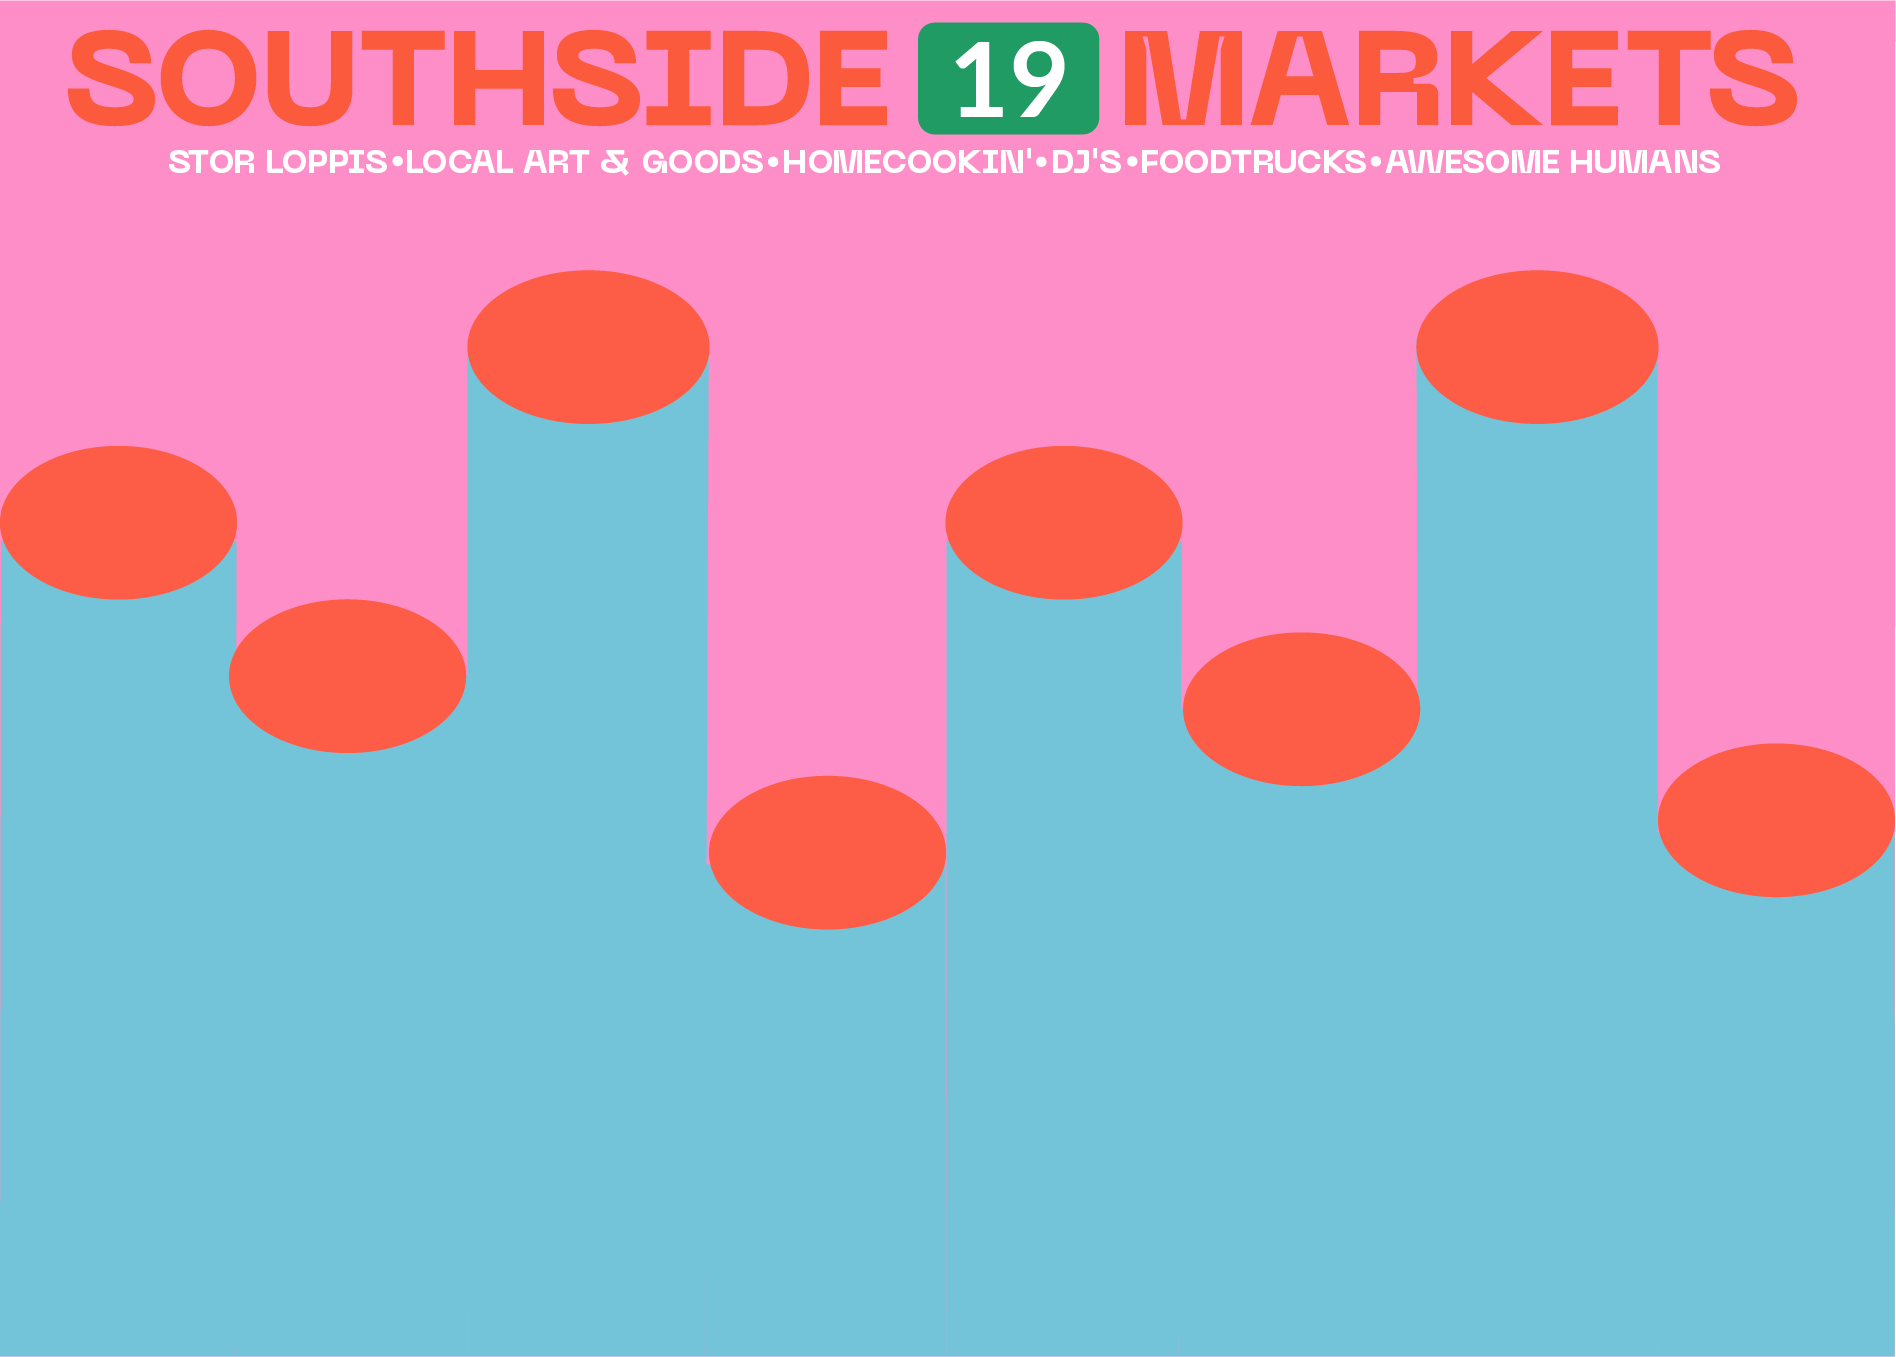
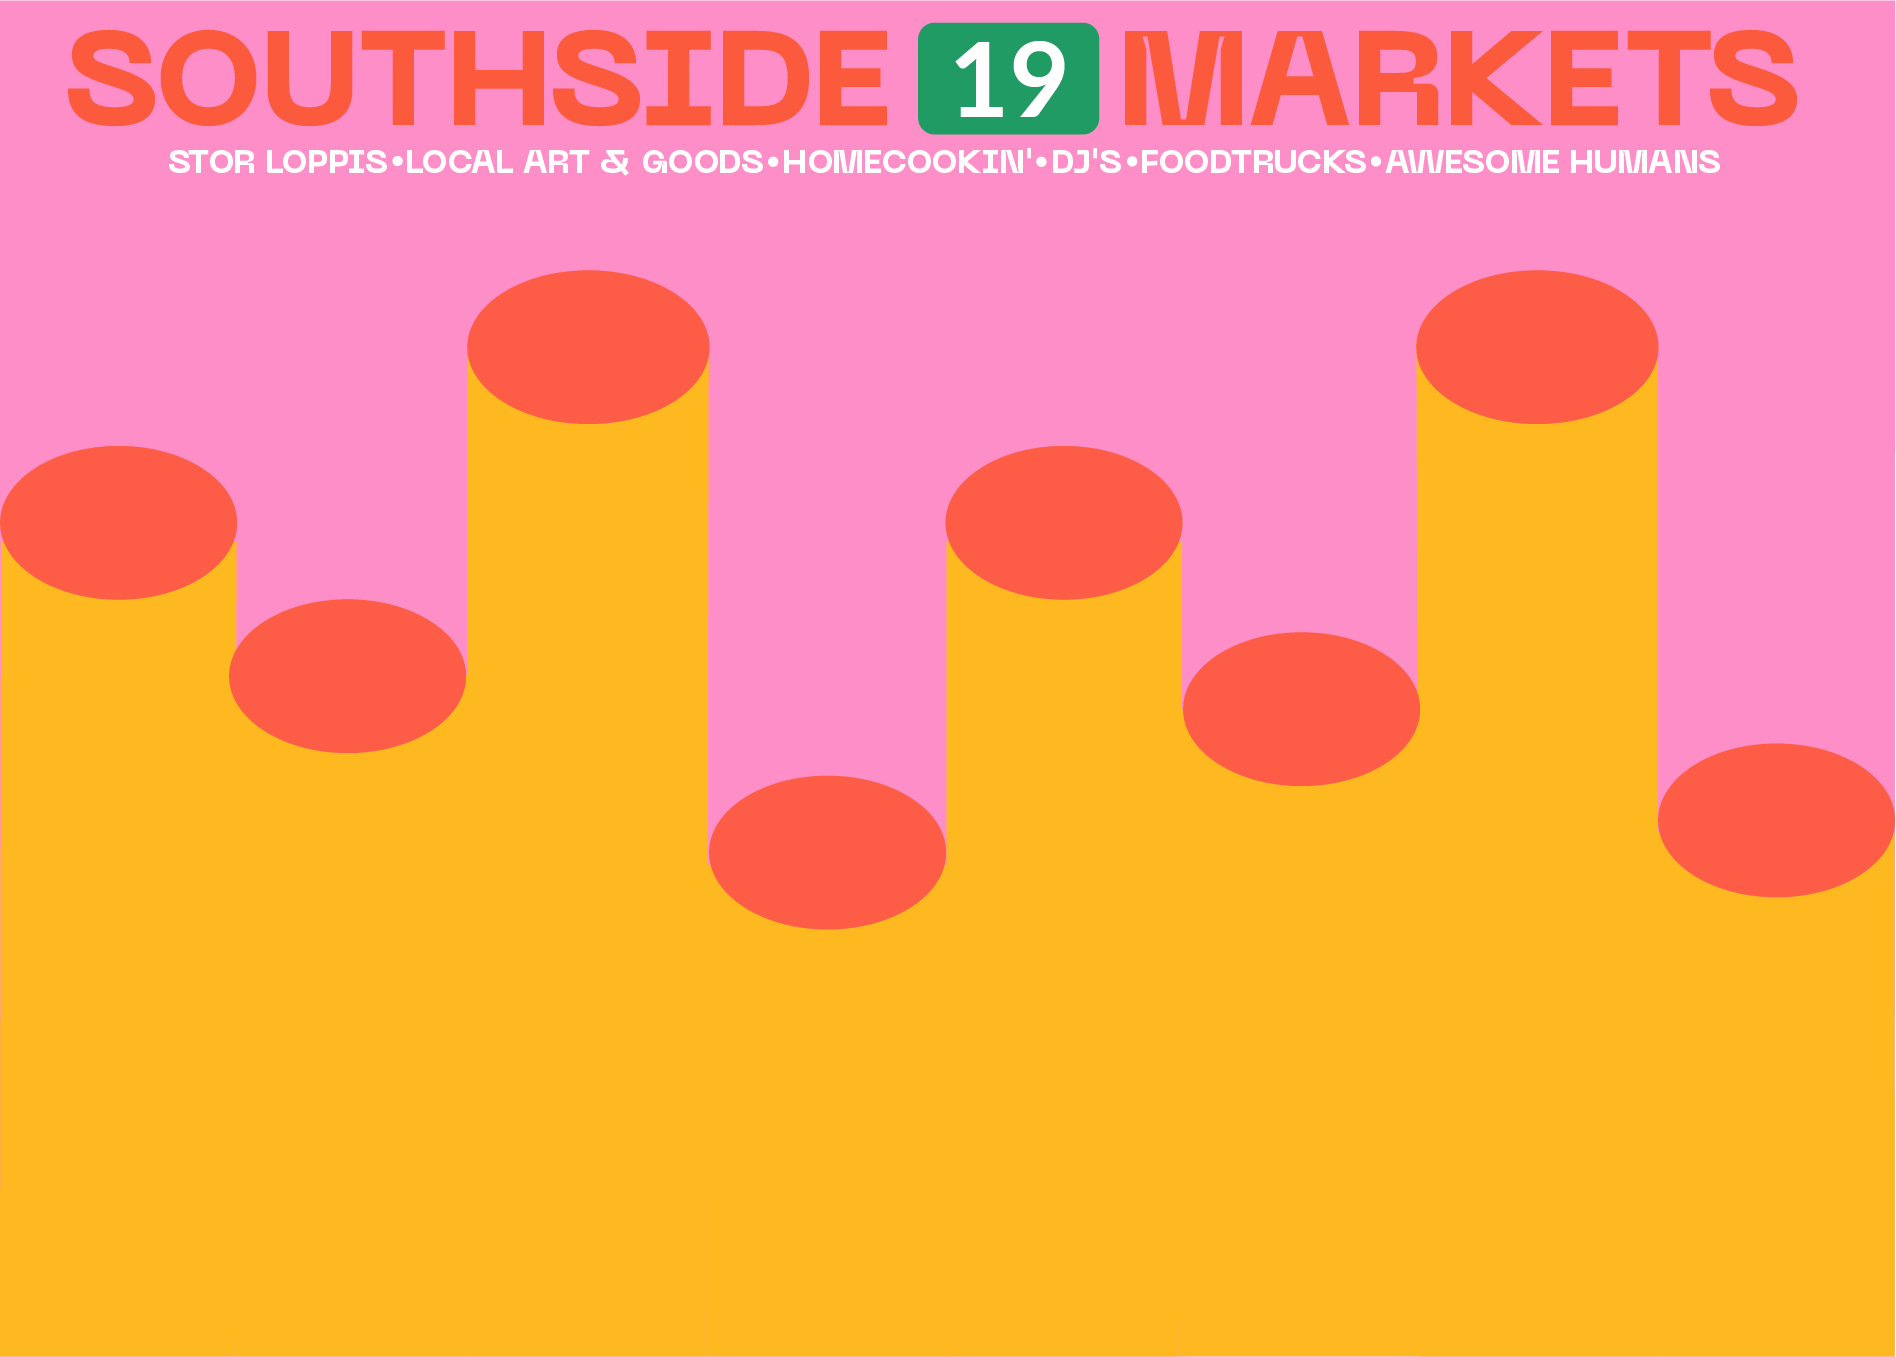
southside image changed

diff --git a/style.css b/style.css
@@ -195,9 +195,10 @@ video{
 .eighteen{
     grid-column: 1/5;
     grid-row:14;
-    background-image: url('images/southside.svg');
-    background-size: cover;
+    background-image: url('images/southside.png');
+    background-size: 100% 100%;
     background-repeat: no-repeat;
+    width: 100%;
 }
 
 /* book */
